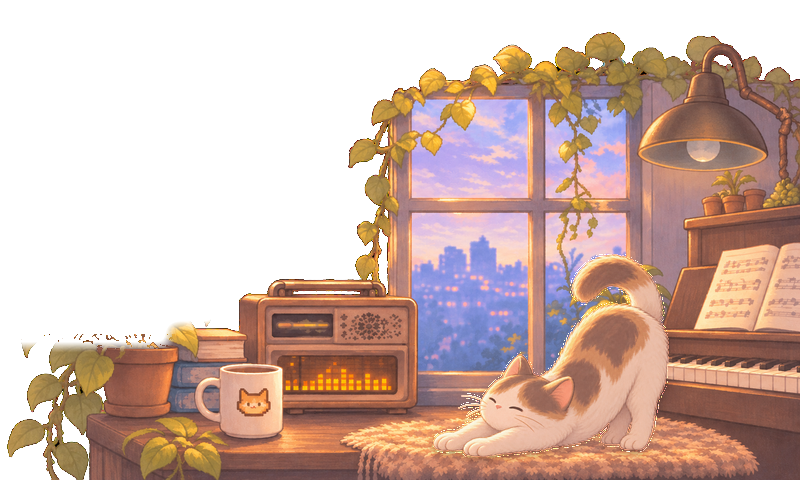
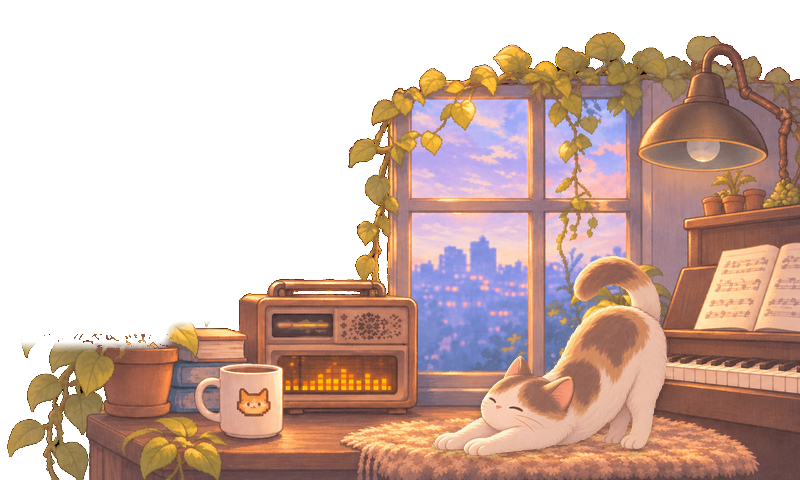
feat: 좌우 도킹 ☰ 트리 메뉴, 코지 고개 천천히·창문 누끼 자국 제거
- 좌/우 도킹 시 좁은 세로 띠라 툴바가 가려짐 → 컨트롤을 ☰ 메뉴 하나로 접어 세로 트리(서브메뉴 인라인 아코디언)로 표시
- 코지: 고양이 고개 드는 속도 완화(awake rate 3→1.6)
- 코지: 자는 중 창문에 남던 누끼 흰 후광 제거 — cozy_build_scene.py가 고양이 가장자리 알파 1px 침식·스티프닝, 전 포즈 재생성

diff --git a/src/toolbar.ts b/src/toolbar.ts
@@ -353,6 +353,41 @@ export function initToolbar(grid: Grid, source: Source): Toolbar {
     }
   });
 
+  // ---- narrow (left / right) dock: fold the whole toolbar into one ☰ tree menu -------
+  // A left/right strip is too narrow for the horizontal toolbar, so its controls were cut off
+  // (2026-11-18 사용자). When docked left/right the controls are relocated into the ☰ menu-panel,
+  // stacked vertically; each sub-menu (모듈/도킹/프리셋/창) opens inline (accordion tree) instead of as
+  // a clipped popover. Comment placeholders mark each control's home so it restores exactly on undock.
+  {
+    const menuBtn = $("menu-btn");
+    const menuPanel = $("menu-panel");
+    // own toggle (not wireMenu) so the nested menus' closeAllMenus does not also close this container
+    menuBtn.addEventListener("click", (e) => { e.stopPropagation(); menuPanel.classList.toggle("hidden"); });
+    menuPanel.addEventListener("click", (e) => e.stopPropagation());
+    document.addEventListener("click", () => menuPanel.classList.add("hidden"));
+    const items: HTMLElement[] = [
+      $("device-select"), $("rec-btn"), $("rec-time"),
+      $("modules-btn").closest(".menu") as HTMLElement,
+      $("edit-btn"),
+      $("dock-btn").closest(".menu") as HTMLElement,
+      $("preset-btn").closest(".menu") as HTMLElement,
+      $("win-btn").closest(".menu") as HTMLElement,
+      $("reset-layout-btn"), $("install-plugin-btn"), $("mini-btn"),
+    ].filter(Boolean) as HTMLElement[];
+    const home = items.map((el) => ({ el, ph: document.createComment("tb") }));
+    let collapsed = false;
+    const setCollapsed = (on: boolean) => {
+      if (on === collapsed) return;
+      collapsed = on;
+      document.body.classList.toggle("dock-vertical", on);
+      if (on) { for (const h of home) { h.el.replaceWith(h.ph); menuPanel.appendChild(h.el); } }
+      else { for (const h of home) h.ph.replaceWith(h.el); menuPanel.classList.add("hidden"); closeAllMenus(); }
+    };
+    const apply = () => setCollapsed(document.body.dataset.dock === "left" || document.body.dataset.dock === "right");
+    apply();
+    new MutationObserver(apply).observe(document.body, { attributes: true, attributeFilter: ["data-dock"] });
+  }
+
   // ---- status bar ------------------------------------------------------------
   const stDevice = $("st-device"), stRate = $("st-rate"), stFps = $("st-fps"), stState = $("st-state");
   let frames = 0, fpsAt = performance.now();

diff --git a/src/style.css b/src/style.css
@@ -63,6 +63,18 @@ body { display: flex; flex-direction: column; }
 }
 .tb-group { display: flex; align-items: center; gap: 6px; }
 .tb-right { margin-left: auto; }
+/* narrow (left/right) dock: the whole toolbar folds into the ☰ menu (toolbar.ts). Hide the normal
+   groups, show ☰, and stack its contents vertically with sub-menus opening inline as a tree. */
+.tb-menu-group { display: none; }
+body.dock-vertical .tb-menu-group { display: flex; }
+body.dock-vertical #toolbar > .tb-group:not(.tb-menu-group) { display: none; }
+body.dock-vertical #toolbar { gap: 0; padding: 0 4px; justify-content: flex-start; }
+body.dock-vertical #menu-panel { display: flex; flex-direction: column; align-items: stretch; gap: 4px; min-width: 150px; max-width: calc(100vw - 16px); max-height: calc(100vh - 44px); overflow-y: auto; }
+body.dock-vertical #menu-panel > .btn, body.dock-vertical #menu-panel > select, body.dock-vertical #menu-panel > .menu > .btn { width: 100%; text-align: left; justify-content: flex-start; }
+body.dock-vertical #menu-panel .menu { width: 100%; position: static; }
+/* sub-menus flow inline (accordion tree) instead of as a clipped absolute popover */
+body.dock-vertical #menu-panel .popover { position: static; box-shadow: none; margin: 2px 0 4px 10px; border-left: 2px solid var(--line); border-radius: 0; background: transparent; min-width: 0; }
+body.dock-vertical #menu-panel #rec-time { align-self: flex-start; }
 .app-name {
   font-size: 11px; font-weight: 600; letter-spacing: 0.08em; text-transform: uppercase;
 }

diff --git a/src/modules/cozy.ts b/src/modules/cozy.ts
@@ -324,7 +324,8 @@ export class CozyModule implements Module {
     const playing = this.level > this.sleepDb;
     this.quietFor = playing ? 0 : this.quietFor + dt;
     const wantAwake = this.quietFor < 2 ? 1 : 0;
-    this.awake += (wantAwake - this.awake) * Math.min(1, dt * (wantAwake ? 3 : 0.8));
+    // raising the head (waking) is gentler than before (2026-11-18 사용자: 고개 들 때 좀 더 천천히)
+    this.awake += (wantAwake - this.awake) * Math.min(1, dt * (wantAwake ? 1.6 : 0.8));
     // lamp: on with the music (brightness follows the level), off in silence (2026-11-17 사용자:
     // 음악이 없을 때 스탠드가 꺼져 보이게) — switches on quickly, fades off over ~1.5 s
     const target = playing ? 0.55 + 0.45 * Math.max(0, Math.min(1, (this.level + 45) / 35)) : 0;

diff --git a/index.html b/index.html
@@ -11,6 +11,12 @@
       <div class="tb-group">
         <span class="app-name">ShowMeterBeat</span>
       </div>
+      <div class="tb-group tb-menu-group">
+        <div class="menu">
+          <button id="menu-btn" class="btn" title="메뉴">☰ 메뉴</button>
+          <div id="menu-panel" class="popover hidden"></div>
+        </div>
+      </div>
       <div class="tb-group">
         <select id="device-select" title="캡처 장치"></select>
       </div>

diff --git a/scripts/cozy_build_scene.py b/scripts/cozy_build_scene.py
@@ -64,6 +64,11 @@ def scaled(im, f):
     rr = np.array(Image.fromarray(x.clip(0, 255).astype(np.uint8), "RGBA").resize((w, h), Image.LANCZOS)).astype(np.float32)
     al = rr[..., 3:4] / 255
     rr[..., :3] = np.where(al > 0.01, rr[..., :3] / np.maximum(al, 0.01), 0)
+    # Trim the soft anti-aliased rim: the user's cats have a faint light halo that reads as a white
+    # dashed outline over the dark window when sleeping (2026-11-18 사용자: 자고 있을 때 창문에 자국).
+    # Erode the alpha by ~1 px (drops the fringe ring) and steepen what remains for a crisp edge.
+    er = np.array(Image.fromarray(rr[..., 3].astype(np.uint8)).filter(ImageFilter.MinFilter(3))).astype(np.float32)
+    rr[..., 3] = np.clip((er - 45) * 1.5, 0, 255)
     return rr
 
 
